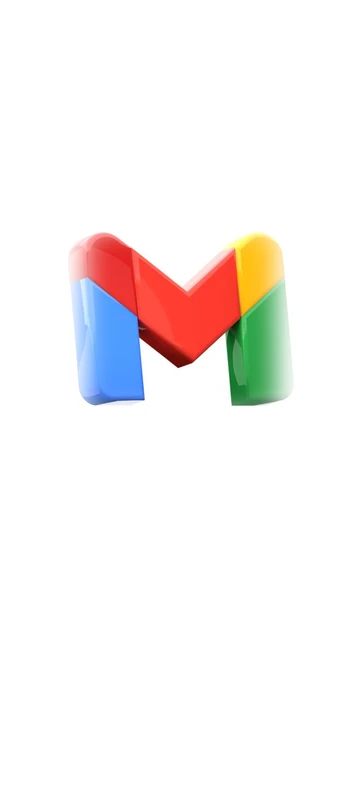
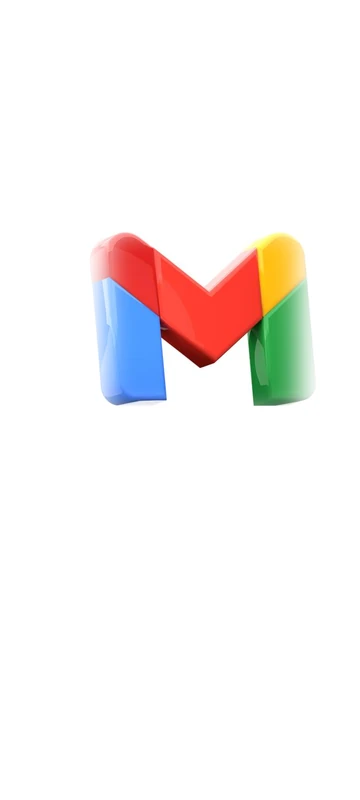
Open doors: the brand tag no longer touches the open door leaf
The icon + label tag stays centred on the door as far as possible and moves right only as far as needed to clear the
leaf (a small positioning grid with a minimum left spacer): almost no movement on desktop, a little on small phones.
Font and padding scale with the doorway width so the longest label still fits from 320px to 1920px. The logo pictures
sit just right of the door centre so they are clear of the leaf too.

Changed region(s): [[0.1833, 0.2812, 0.8861, 0.5312]]

diff --git a/app/globals.css b/app/globals.css
@@ -516,68 +516,81 @@
     linear-gradient(180deg, rgb(0 0 0 / 0.38), transparent 22%, transparent 48%, rgb(5 6 7 / 0.88) 100%),
     radial-gradient(ellipse 90% 85% at 50% 45%, transparent 55%, rgb(0 0 0 / 0.55) 100%);
 }
-/* Brand icon + label: a small dark tag, centred on the door itself (the same centre line as the nameplate of the
-   closed door) and drawn in FRONT of the leaf, so the open leaf never hides any letter. It fades in as the door opens. */
-.doorway-chip {
+/* Brand icon + label: a small dark tag in the open doorway.
+   It stays centred on the door as far as possible, but never touches the open leaf: the grid has a left spacer of at
+   least --lg (the part of the doorway the leaf covers, plus a small gap), so the tag moves right only as much as needed
+   (almost not at all on desktop, a little on small phones). Still drawn in front of the leaf as a safety net, and
+   faded in as the door opens. */
+.doorway-tag {
+  --lg: 29%;
+  --fs: clamp(7.6px, 2.15vw, 9.4px);
+  --ls: 0.03em;
+  --px: clamp(3px, 1vw, 5px);
   position: absolute;
   z-index: 2;
-  left: 50%;
+  left: 0;
+  right: 0;
   bottom: 9%;
-  transform: translateX(-50%);
-  width: max-content; /* never wrap the label (an abspos box at left:50% only gets half the doorway to fit) */
-  display: flex;
-  flex-direction: column;
-  align-items: center;
-  gap: 0.2rem;
-  padding: 0.4rem 0.6rem 0.45rem;
-  border-radius: 12px;
-  color: #f1dcae;
-  background: rgb(6 8 10 / 0.62);
-  box-shadow: 0 0 0 1px rgb(212 165 104 / 0.24);
+  display: grid;
+  grid-template-columns: minmax(var(--lg), 1fr) auto minmax(3%, 1fr);
   pointer-events: none;
   opacity: 0;
   transition: opacity 0.3s ease-out;
 }
-.door-slot[data-open='true'] .doorway-chip {
+.door-slot[data-open='true'] .doorway-tag {
   opacity: 1;
   transition-delay: 0.18s;
 }
+.doorway-chip {
+  grid-column: 2;
+  display: flex;
+  flex-direction: column;
+  align-items: center;
+  gap: calc(var(--fs) * 0.25);
+  padding: calc(var(--fs) * 0.45) var(--px) calc(var(--fs) * 0.5);
+  border-radius: calc(var(--fs) * 1.3);
+  color: #f1dcae;
+  background: rgb(6 8 10 / 0.62);
+  box-shadow: 0 0 0 1px rgb(212 165 104 / 0.24);
+}
 .doorway-chip > svg {
-  width: 1.4rem;
-  height: 1.4rem;
-}
-@media (min-width: 1024px) {
-  .doorway-chip {
-    padding: 0.6rem 1.1rem 0.65rem;
-    border-radius: 16px;
-  }
-  .doorway-chip > svg {
-    width: 2rem;
-    height: 2rem;
-  }
-}
-.doorway-chip .doorway-label {
-  white-space: nowrap;
-  text-shadow: 0 1px 3px rgb(0 0 0 / 0.8);
-}
-@media (max-width: 639px) {
-  .doorway-chip .doorway-label {
-    --ls: 0.04em; /* small doorways: keep the longest labels compact */
-  }
-}
-@media (max-width: 339px) {
-  .doorway-chip .doorway-label {
-    --ls: 0;
-  }
+  width: calc(var(--fs) * 2.7);
+  height: calc(var(--fs) * 2.7);
 }
 .doorway-label {
-  --ls: 0.1em;
-  font-size: 0.56rem;
+  font-size: var(--fs);
   font-weight: 700;
   letter-spacing: var(--ls);
   padding-left: var(--ls); /* balances the spacing that follows the last letter */
+  white-space: nowrap;
   text-transform: uppercase;
   color: #e9d3a0;
+  text-shadow: 0 1px 3px rgb(0 0 0 / 0.8);
+}
+@media (max-width: 349px) {
+  /* the smallest phones: a tighter tag so it still clears the open door and the right edge */
+  .doorway-tag {
+    --lg: 29.5%;
+    --fs: 7.1px;
+    --ls: 0.01em;
+    --px: 1.5px;
+  }
+}
+@media (min-width: 640px) and (max-width: 1023px) {
+  .doorway-tag {
+    --lg: 26%;
+    --fs: 11.2px;
+    --ls: 0.12em;
+    --px: 14px;
+  }
+}
+@media (min-width: 1024px) {
+  .doorway-tag {
+    --lg: 27%;
+    --fs: clamp(8.4px, 0.78vw, 11.2px);
+    --ls: 0.1em;
+    --px: clamp(7px, 0.75vw, 12px);
+  }
 }
 
 /* WALNUT LEAF: procedural grain (static image), vertical shading, raised panels */
@@ -1081,10 +1094,6 @@
 }
 
 @media (min-width: 640px) {
-  .doorway-label {
-    --ls: 0.18em;
-    font-size: 0.7rem;
-  }
   .plate {
     letter-spacing: 0.08em;
   }
@@ -1209,7 +1218,7 @@
   .spill,
   .doorway > .doorway-img,
   .lever,
-  .doorway-chip,
+  .doorway-tag,
   .brand-strip,
   .brand-strip::after {
     transition: none;

diff --git a/components/Doors.tsx b/components/Doors.tsx
@@ -478,10 +478,12 @@ export default function Doors({ lang }: { lang: Lang }) {
                       </span>
                       <span className="leaf-edge" />
                     </span>
-                    {/* brand icon + label: a tag centred on the door, drawn in FRONT of the open leaf so the leaf never hides it */}
-                    <span className="doorway-chip">
-                      {d.icon}
-                      <span className="doorway-label">{d.label}</span>
+                    {/* brand icon + label: a small tag that stays centred on the door but never touches the open leaf */}
+                    <span aria-hidden className="doorway-tag">
+                      <span className="doorway-chip">
+                        {d.icon}
+                        <span className="doorway-label">{d.label}</span>
+                      </span>
                     </span>
                   </span>
                 </span>

diff --git a/scripts/optimize-link-screens.py b/scripts/optimize-link-screens.py
@@ -3,7 +3,7 @@
 Every preview is a PORTRAIT 360x800 image: the doorway is about 0.45 wide / tall, so it fits exactly.
   - phone screenshots (facebook, github, instagram, linkedin, portfolio): at their real size, slid to the right
     so the left part (profile photo + name) is not hidden behind the open door leaf
-  - icons (gmail, call, telegram, whatsapp): the icon on a portrait backdrop, centred on the door
+  - icons (gmail, call, telegram, whatsapp): the icon on a portrait backdrop, just clear of the open door leaf
 
 To change a picture: put the new file in source-images/links-screens/ with the same name
 (png / jpg / jpeg / webp), then run
@@ -19,7 +19,7 @@ root = Path(__file__).resolve().parent.parent
 src, out = root / "source-images" / "links-screens", root / "public" / "images" / "links-screens"
 
 W, H = 360, 800
-CENTER_X, CENTER_Y = 0.5, 0.40  # where the icon sits (fractions of the preview): centred on the door
+CENTER_X, CENTER_Y = 0.56, 0.40  # where the icon sits (fractions of the preview): a little right of the door centre, clear of the open leaf
 ICON_W = 220  # width of the icon itself, in preview pixels (the open door leaf hides at most the outer ~6%)
 SHIFT = int(W * 0.27)  # the open door leaf hides the left ~27% of the doorway: screenshots slide right by this much
 
